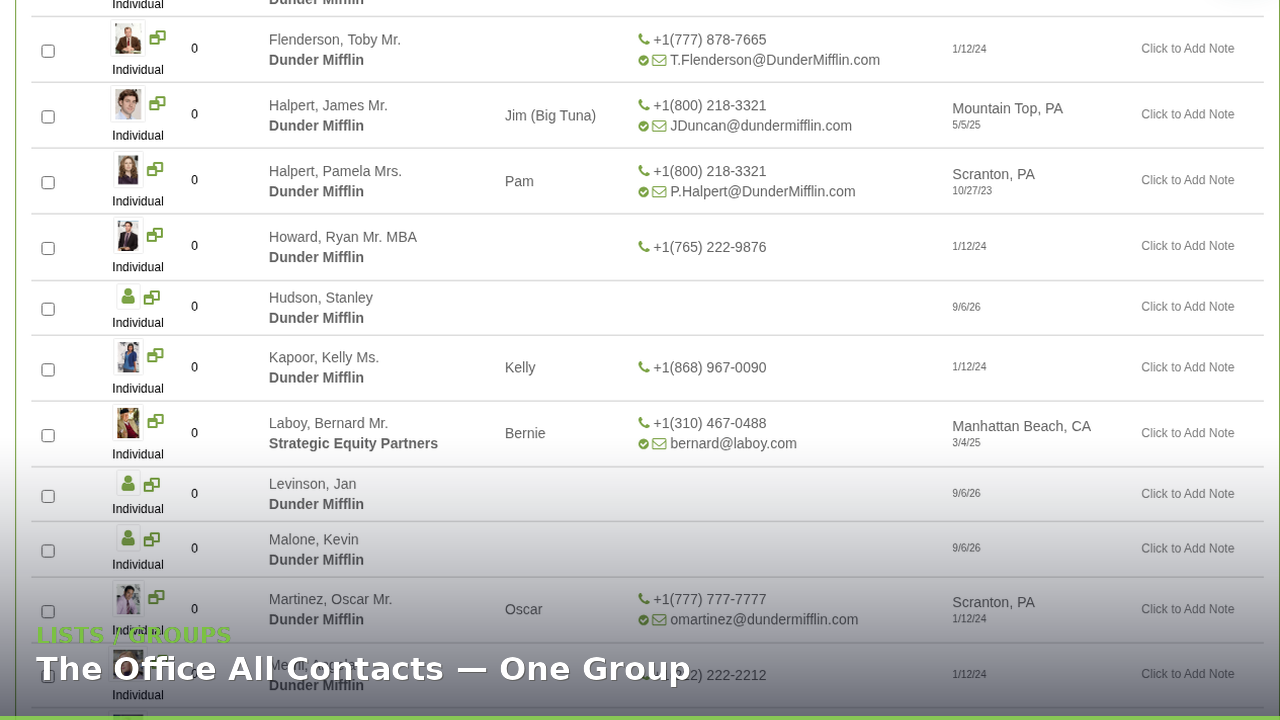
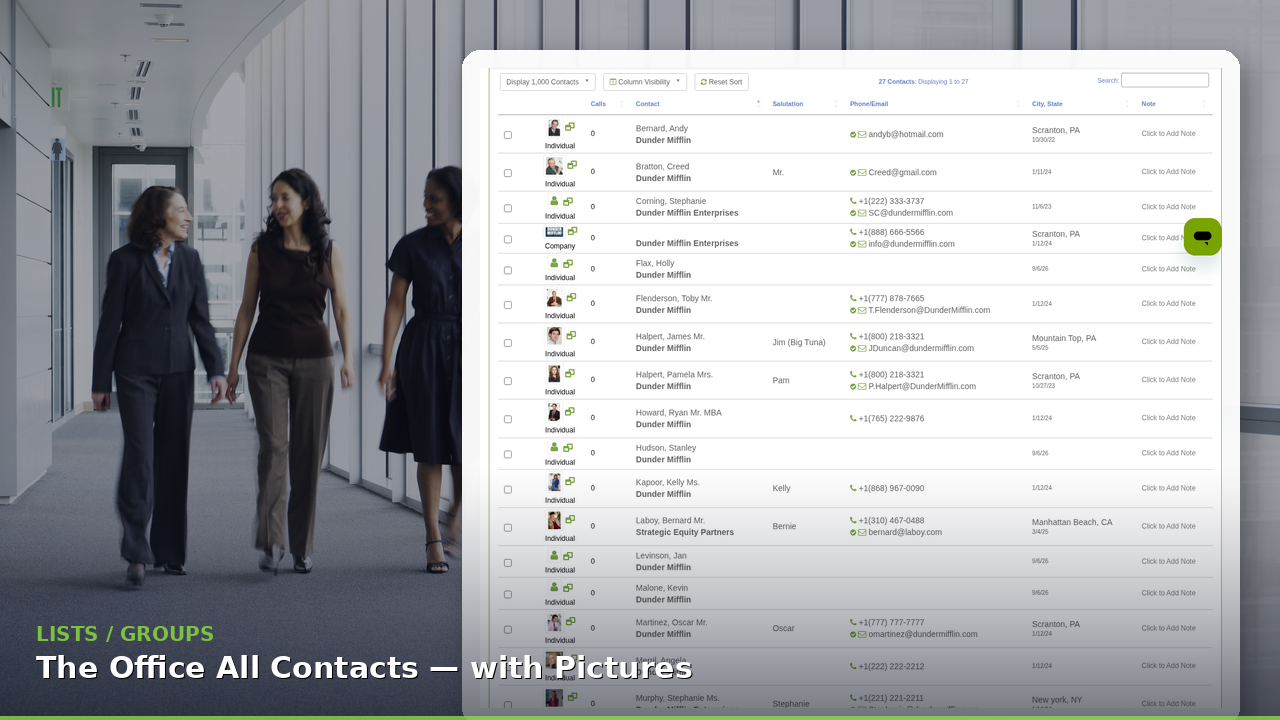
Capabilities Lists/Groups: photo overlay + Office All Contacts with pictures

diff --git a/capabilities/index.html b/capabilities/index.html
@@ -6,7 +6,7 @@
 <title>Capabilities | iDONATEpro</title>
 <meta name="description" content="From a messy Scranton list to Dundies night — Contacts, Import, Email, Call Sheets, Events in one Donor book. Call Time that wins.">
 <link rel="icon" href="/favicon.ico">
-<link rel="stylesheet" href="/css/site.css?v=118">
+<link rel="stylesheet" href="/css/site.css?v=119">
 </head>
 <body>
 <header class="site-header">
@@ -129,7 +129,7 @@
   <div class="wrap capability-grid">
         <div class="cap-media">
       <figure class="cap-shot">
-        <img src="/img/capabilities/lists-groups.png?v=3" alt="Lists and Groups in iDONATEpro" width="1280" height="720" loading="lazy">
+        <img src="/img/capabilities/lists-groups.png?v=4" alt="Lists and Groups in iDONATEpro" width="1280" height="720" loading="lazy">
       </figure>
     </div>
 <div class="capability-copy">

diff --git a/icons/index.html b/icons/index.html
@@ -7,7 +7,7 @@
 <meta name="robots" content="noindex, nofollow">
 <meta name="description" content="Locked iDp icon set, five finishes.">
 <link rel="icon" href="/favicon.ico">
-<link rel="stylesheet" href="/css/site.css?v=118">
+<link rel="stylesheet" href="/css/site.css?v=119">
 <style>
 section.compare-board { padding: 3.25rem 0 5rem; background: var(--bg); }
 section.compare-board .wrap-board { width: min(72rem, calc(100% - 3rem)); margin-inline: auto; }

diff --git a/who-its-for/index.html b/who-its-for/index.html
@@ -6,7 +6,7 @@
 <title>Who It's For | iDONATEpro</title>
 <meta name="description" content="iDONATEpro is built for Political Fundraisers, Campaigns & Committees, and Regional Parties & 501(c) Organizations. See who you become with a Donor book that travels with you.">
 <link rel="icon" href="/favicon.ico">
-<link rel="stylesheet" href="/css/site.css?v=118">
+<link rel="stylesheet" href="/css/site.css?v=119">
 </head>
 <body>
 <header class="site-header">

diff --git a/index.html b/index.html
@@ -6,7 +6,7 @@
 <title>iDONATEpro | Political Fundraising CRM Software</title>
 <meta name="description" content="CRM software for Political Fundraisers, campaigns, committees, Regional Parties, and 501(c) Organizations. Book a free demo or start a 14-day trial.">
 <link rel="icon" href="/favicon.ico">
-<link rel="stylesheet" href="/css/site.css?v=118">
+<link rel="stylesheet" href="/css/site.css?v=119">
 </head>
 <body>
 <header class="site-header">

diff --git a/terms-and-conditions/index.html b/terms-and-conditions/index.html
@@ -6,7 +6,7 @@
 <title>Terms & Conditions | iDONATEpro</title>
 <meta name="description" content="CRM software for political fundraisers, campaigns, committees, regional parties, and 501(c) organizations. Book a free demo or start a 14-day trial.">
 <link rel="icon" href="/favicon.ico">
-<link rel="stylesheet" href="/css/site.css?v=118">
+<link rel="stylesheet" href="/css/site.css?v=119">
 </head>
 <body>
 <header class="site-header">

diff --git a/referral-program/index.html b/referral-program/index.html
@@ -6,7 +6,7 @@
 <title>Referral Program | iDONATEpro</title>
 <meta name="description" content="CRM software for Political Fundraisers, campaigns, committees, Regional Parties, and 501(c) Organizations. Book a free demo or start a 14-day trial.">
 <link rel="icon" href="/favicon.ico">
-<link rel="stylesheet" href="/css/site.css?v=118">
+<link rel="stylesheet" href="/css/site.css?v=119">
 </head>
 <body>
 <header class="site-header">

diff --git a/privacy-policy/index.html b/privacy-policy/index.html
@@ -6,7 +6,7 @@
 <title>Privacy Policy | iDONATEpro</title>
 <meta name="description" content="CRM software for political fundraisers, campaigns, committees, regional parties, and 501(c) organizations. Book a free demo or start a 14-day trial.">
 <link rel="icon" href="/favicon.ico">
-<link rel="stylesheet" href="/css/site.css?v=118">
+<link rel="stylesheet" href="/css/site.css?v=119">
 </head>
 <body>
 <header class="site-header">

diff --git a/testimonials/index.html b/testimonials/index.html
@@ -6,7 +6,7 @@
 <title>Testimonials | iDONATEpro</title>
 <meta name="description" content="CRM software for Political Fundraisers, campaigns, committees, Regional Parties, and 501(c) Organizations. Book a free demo or start a 14-day trial.">
 <link rel="icon" href="/favicon.ico">
-<link rel="stylesheet" href="/css/site.css?v=118">
+<link rel="stylesheet" href="/css/site.css?v=119">
 </head>
 <body>
 <header class="site-header">

diff --git a/security/index.html b/security/index.html
@@ -6,7 +6,7 @@
 <title>Security | iDONATEpro</title>
 <meta name="description" content="CRM software for political fundraisers, campaigns, committees, regional parties, and 501(c) organizations. Book a free demo or start a 14-day trial.">
 <link rel="icon" href="/favicon.ico">
-<link rel="stylesheet" href="/css/site.css?v=118">
+<link rel="stylesheet" href="/css/site.css?v=119">
 </head>
 <body>
 <header class="site-header">

diff --git a/pricing/index.html b/pricing/index.html
@@ -6,7 +6,7 @@
 <title>Pricing | iDONATEpro</title>
 <meta name="description" content="CRM software for Political Fundraisers, campaigns, committees, Regional Parties, and 501(c) Organizations. Book a free demo or start a 14-day trial.">
 <link rel="icon" href="/favicon.ico">
-<link rel="stylesheet" href="/css/site.css?v=118">
+<link rel="stylesheet" href="/css/site.css?v=119">
 </head>
 <body>
 <header class="site-header">

diff --git a/signup/index.html b/signup/index.html
@@ -6,7 +6,7 @@
 <title>Sign Up | iDONATEpro</title>
 <meta name="description" content="CRM software for Political Fundraisers, campaigns, committees, Regional Parties, and 501(c) Organizations. Book a free demo or start a 14-day trial.">
 <link rel="icon" href="/favicon.ico">
-<link rel="stylesheet" href="/css/site.css?v=118">
+<link rel="stylesheet" href="/css/site.css?v=119">
 </head>
 <body>
 <header class="site-header">

diff --git a/about/index.html b/about/index.html
@@ -6,7 +6,7 @@
 <title>About | iDONATEpro</title>
 <meta name="description" content="CRM software for Political Fundraisers, campaigns, committees, Regional Parties, and 501(c) Organizations. Book a free demo or start a 14-day trial.">
 <link rel="icon" href="/favicon.ico">
-<link rel="stylesheet" href="/css/site.css?v=118">
+<link rel="stylesheet" href="/css/site.css?v=119">
 </head>
 <body>
 <header class="site-header">
